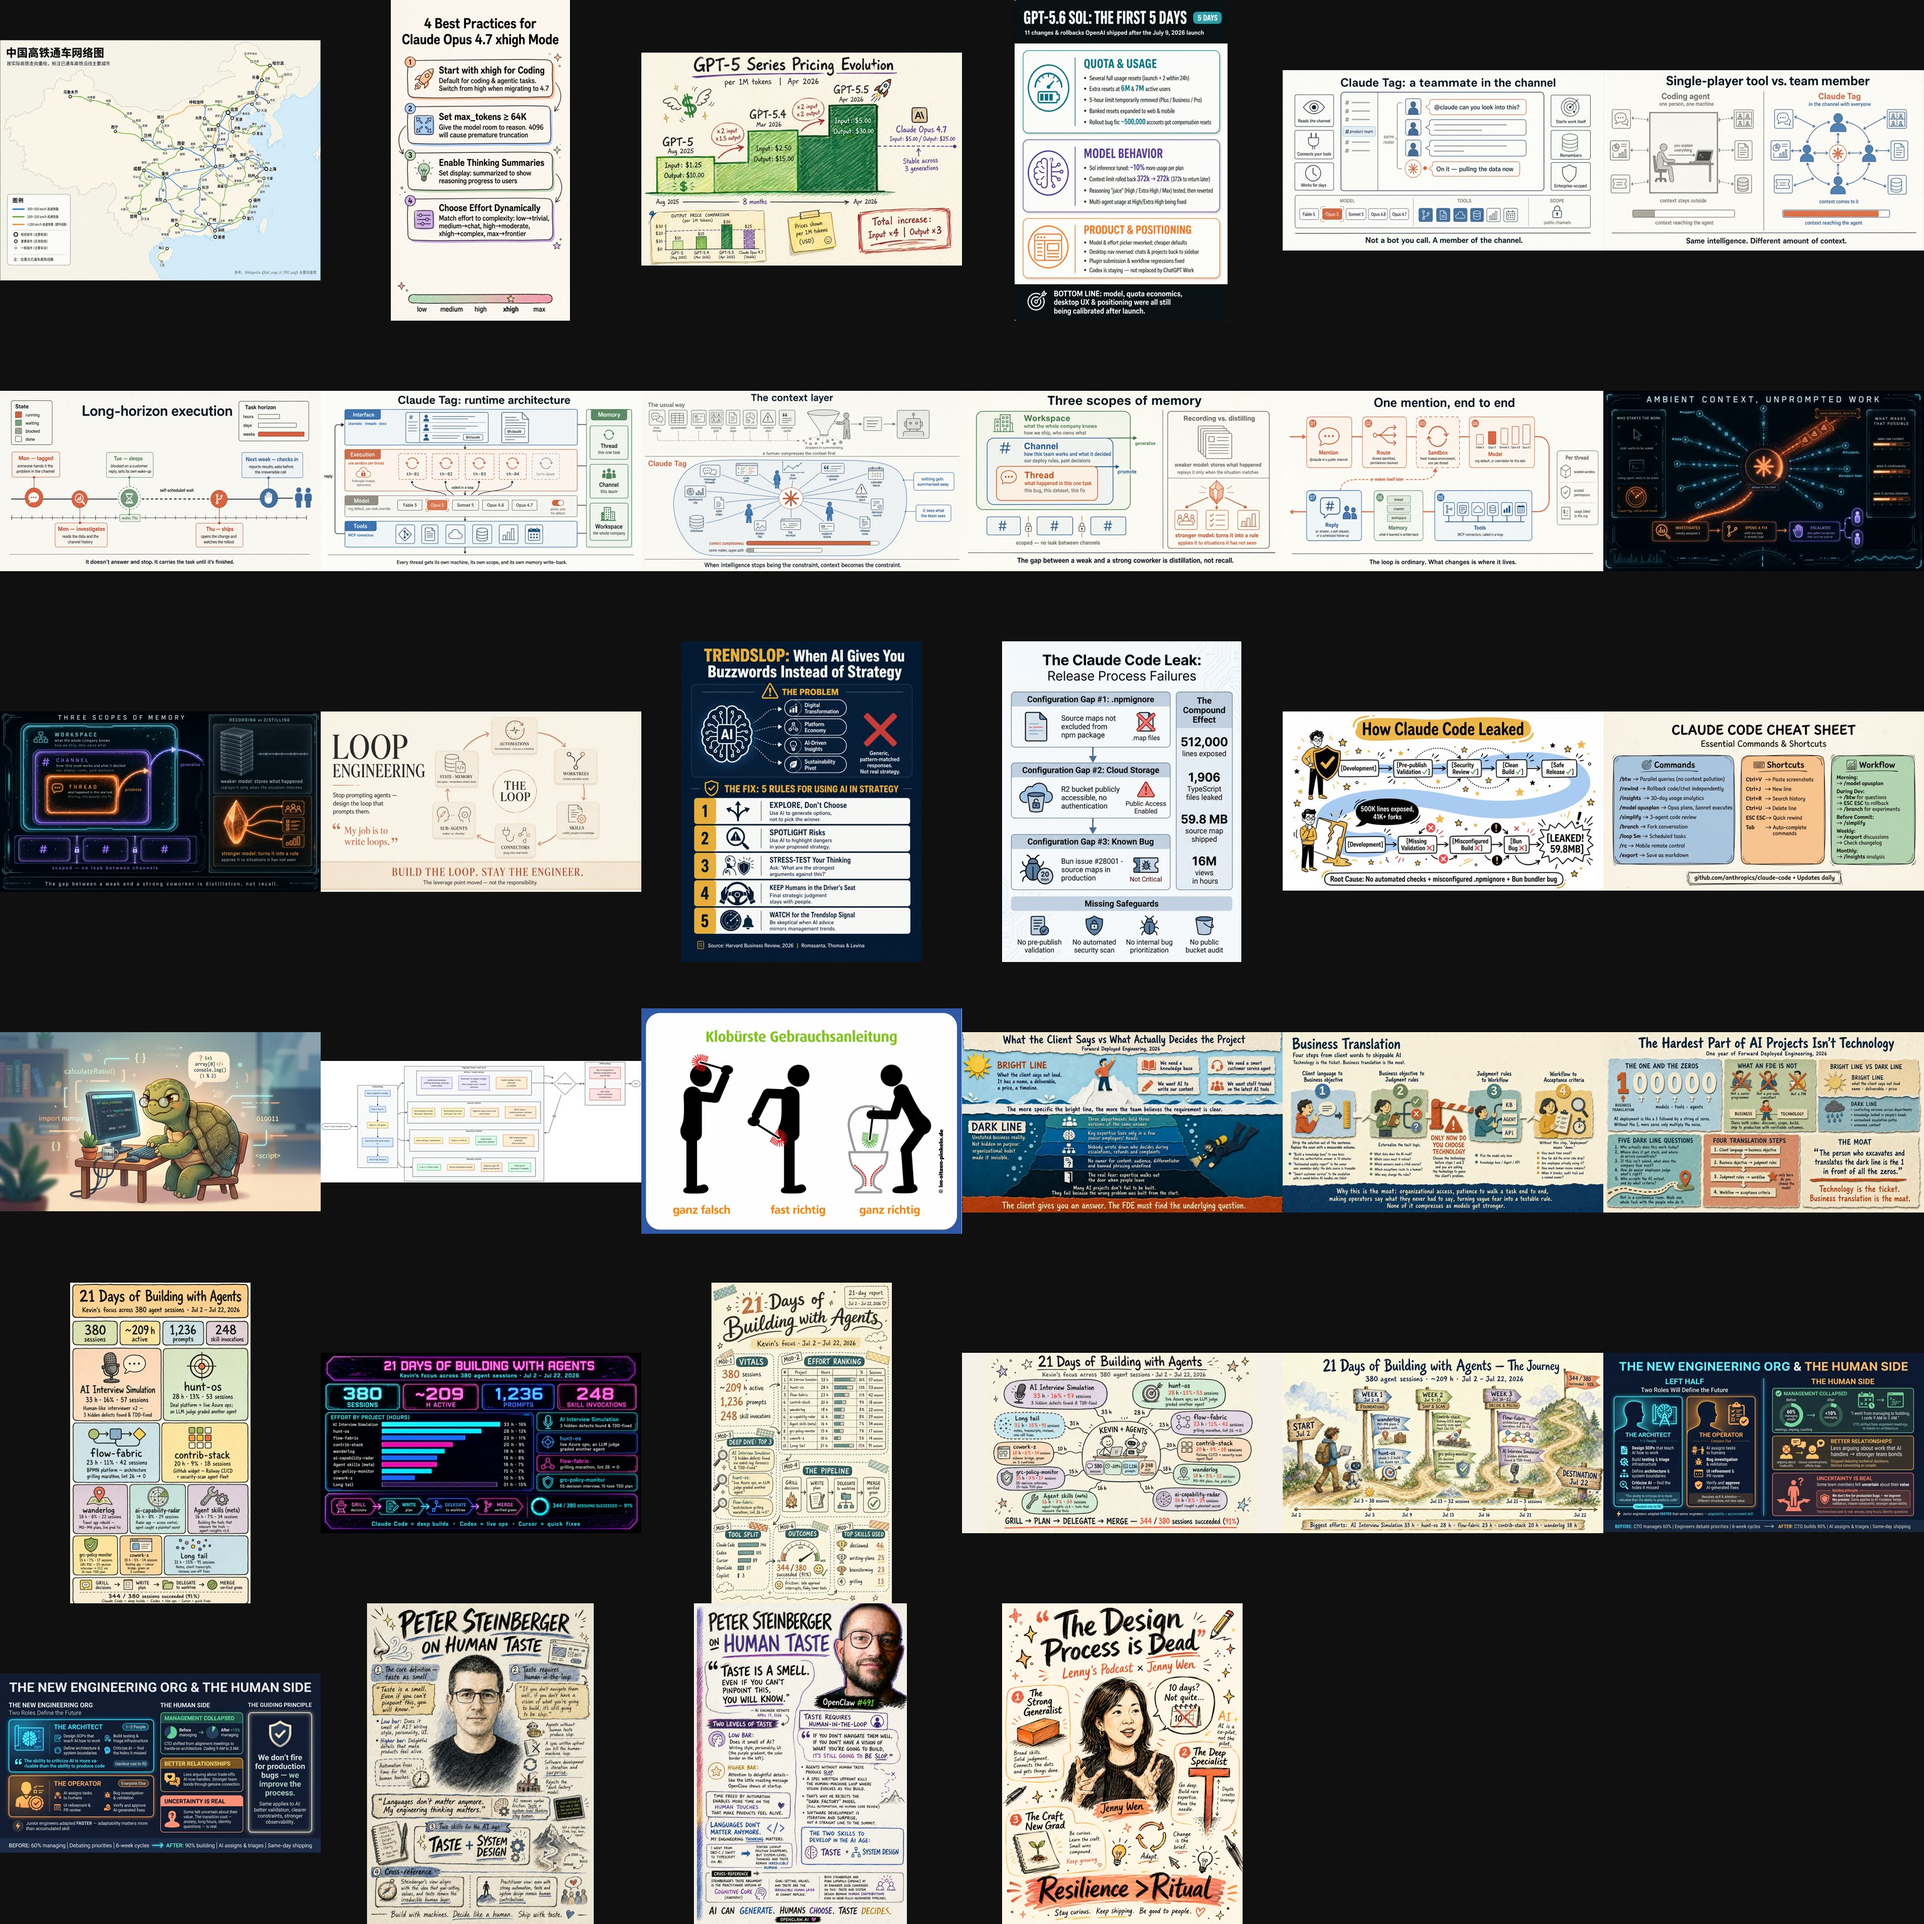
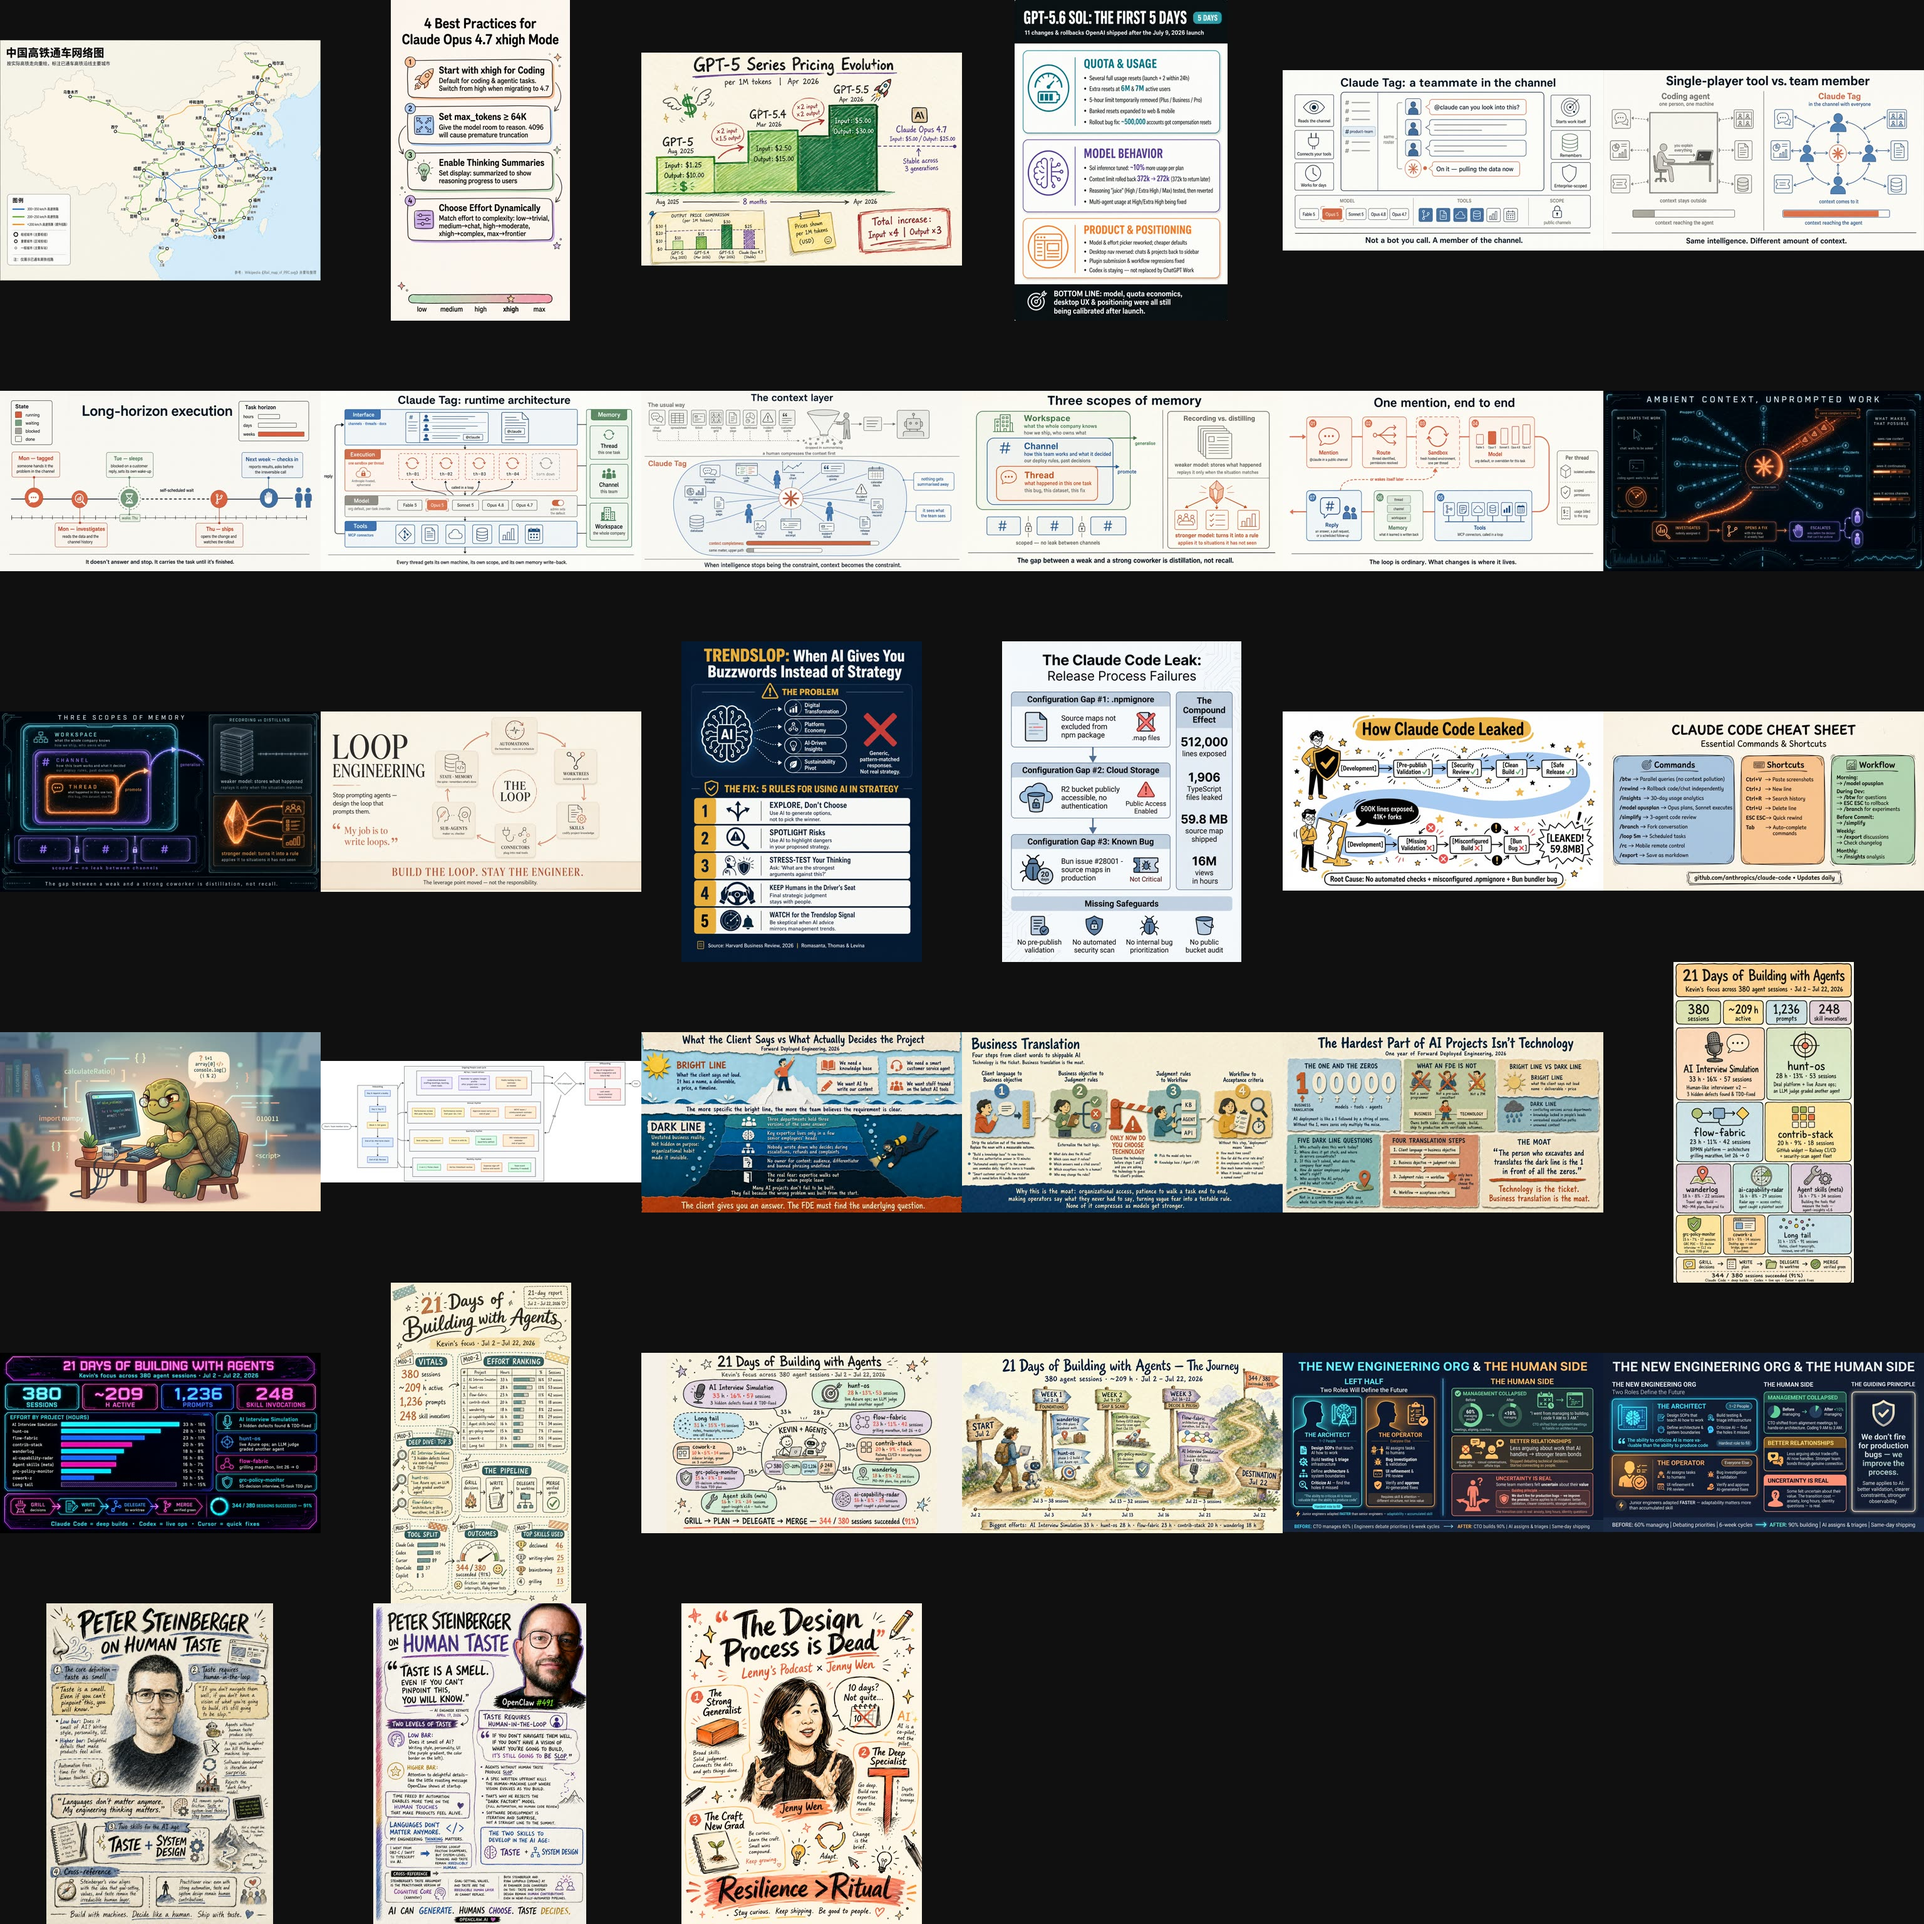
chore: sync artefacts

Changed region(s): [[0.0, 0.5, 1.0, 1.0]]

diff --git a/artefacts/showcase/atlas.js b/artefacts/showcase/atlas.js
@@ -265,26 +265,13 @@ export default {
    ]
   },
   {
-   "id": "kloburste-gebrauchsanleitung",
-   "href": "daily-laughs/klobu-rste-gebrauchsanleitung.jpg",
-   "title": "Klobürste Gebrauchsanleitung: ganz falsch bis ganz richtig",
-   "collection": "Daily laughs",
-   "aspect": 1.419446,
-   "uv": [
-    0.333496,
-    0.52474,
-    0.166341,
-    0.117188
-   ]
-  },
-  {
    "id": "fde-04-iceberg-bright-dark-line-en",
    "href": "fde/04-iceberg-bright-dark-line-en.png",
    "title": "What the client says vs. what actually decides the project",
    "collection": "Forward Deployed Engineer",
    "aspect": 1.776833,
    "uv": [
-    0.500163,
+    0.333496,
     0.536621,
     0.166341,
     0.093424
@@ -297,7 +284,7 @@ export default {
    "collection": "Forward Deployed Engineer",
    "aspect": 1.776833,
    "uv": [
-    0.666829,
+    0.500163,
     0.536621,
     0.166341,
     0.093424
@@ -310,7 +297,7 @@ export default {
    "collection": "Forward Deployed Engineer",
    "aspect": 1.776833,
    "uv": [
-    0.833496,
+    0.666829,
     0.536621,
     0.166341,
     0.093424
@@ -323,8 +310,8 @@ export default {
    "collection": "Fable5 21Days",
    "aspect": 0.5625,
    "uv": [
-    0.036621,
-    0.666829,
+    0.869954,
+    0.500163,
     0.093424,
     0.166341
    ]
@@ -336,7 +323,7 @@ export default {
    "collection": "Fable5 21Days",
    "aspect": 1.776833,
    "uv": [
-    0.166829,
+    0.000163,
     0.703288,
     0.166341,
     0.093424
@@ -349,7 +336,7 @@ export default {
    "collection": "Fable5 21Days",
    "aspect": 0.562799,
    "uv": [
-    0.369954,
+    0.203288,
     0.666829,
     0.093424,
     0.166341
@@ -362,7 +349,7 @@ export default {
    "collection": "Fable5 21Days",
    "aspect": 1.777778,
    "uv": [
-    0.500163,
+    0.333496,
     0.703288,
     0.166341,
     0.093424
@@ -375,7 +362,7 @@ export default {
    "collection": "Fable5 21Days",
    "aspect": 1.776833,
    "uv": [
-    0.666829,
+    0.500163,
     0.703288,
     0.166341,
     0.093424
@@ -388,7 +375,7 @@ export default {
    "collection": "AI Native Organisation",
    "aspect": 1.791667,
    "uv": [
-    0.833496,
+    0.666829,
     0.703613,
     0.166341,
     0.092773
@@ -401,8 +388,8 @@ export default {
    "collection": "AI Native Organisation",
    "aspect": 1.791667,
    "uv": [
-    0.000163,
-    0.87028,
+    0.833496,
+    0.703613,
     0.166341,
     0.092773
    ]
@@ -414,7 +401,7 @@ export default {
    "collection": "Product Builder",
    "aspect": 0.707579,
    "uv": [
-    0.191243,
+    0.024577,
     0.833496,
     0.117513,
     0.166341
@@ -427,7 +414,7 @@ export default {
    "collection": "Product Builder",
    "aspect": 0.666667,
    "uv": [
-    0.361328,
+    0.194661,
     0.833496,
     0.110677,
     0.166341
@@ -440,7 +427,7 @@ export default {
    "collection": "Product Builder",
    "aspect": 0.750293,
    "uv": [
-    0.520996,
+    0.354329,
     0.833496,
     0.124674,
     0.166341

diff --git a/artefacts/index.html b/artefacts/index.html
@@ -591,14 +591,6 @@
                     </ul>
                 </article>
                 <article class="card">
-                    <h3>Daily laughs</h3>
-                    <p>Funny finds from daily life.</p>
-                    <p class="card-updated">Updated <time datetime="2026-07-27">2026-07-27</time></p>
-                    <ul>
-                        <li><a href="daily-laughs/klobu-rste-gebrauchsanleitung.jpg">Klobürste Gebrauchsanleitung: ganz falsch bis ganz richtig</a></li>
-                    </ul>
-                </article>
-                <article class="card">
                     <h3>Fable5 21Days</h3>
                     <p>21 Days of Building with Fable 5.</p>
                     <p class="card-updated">Updated <time datetime="2026-07-22">2026-07-22</time></p>
